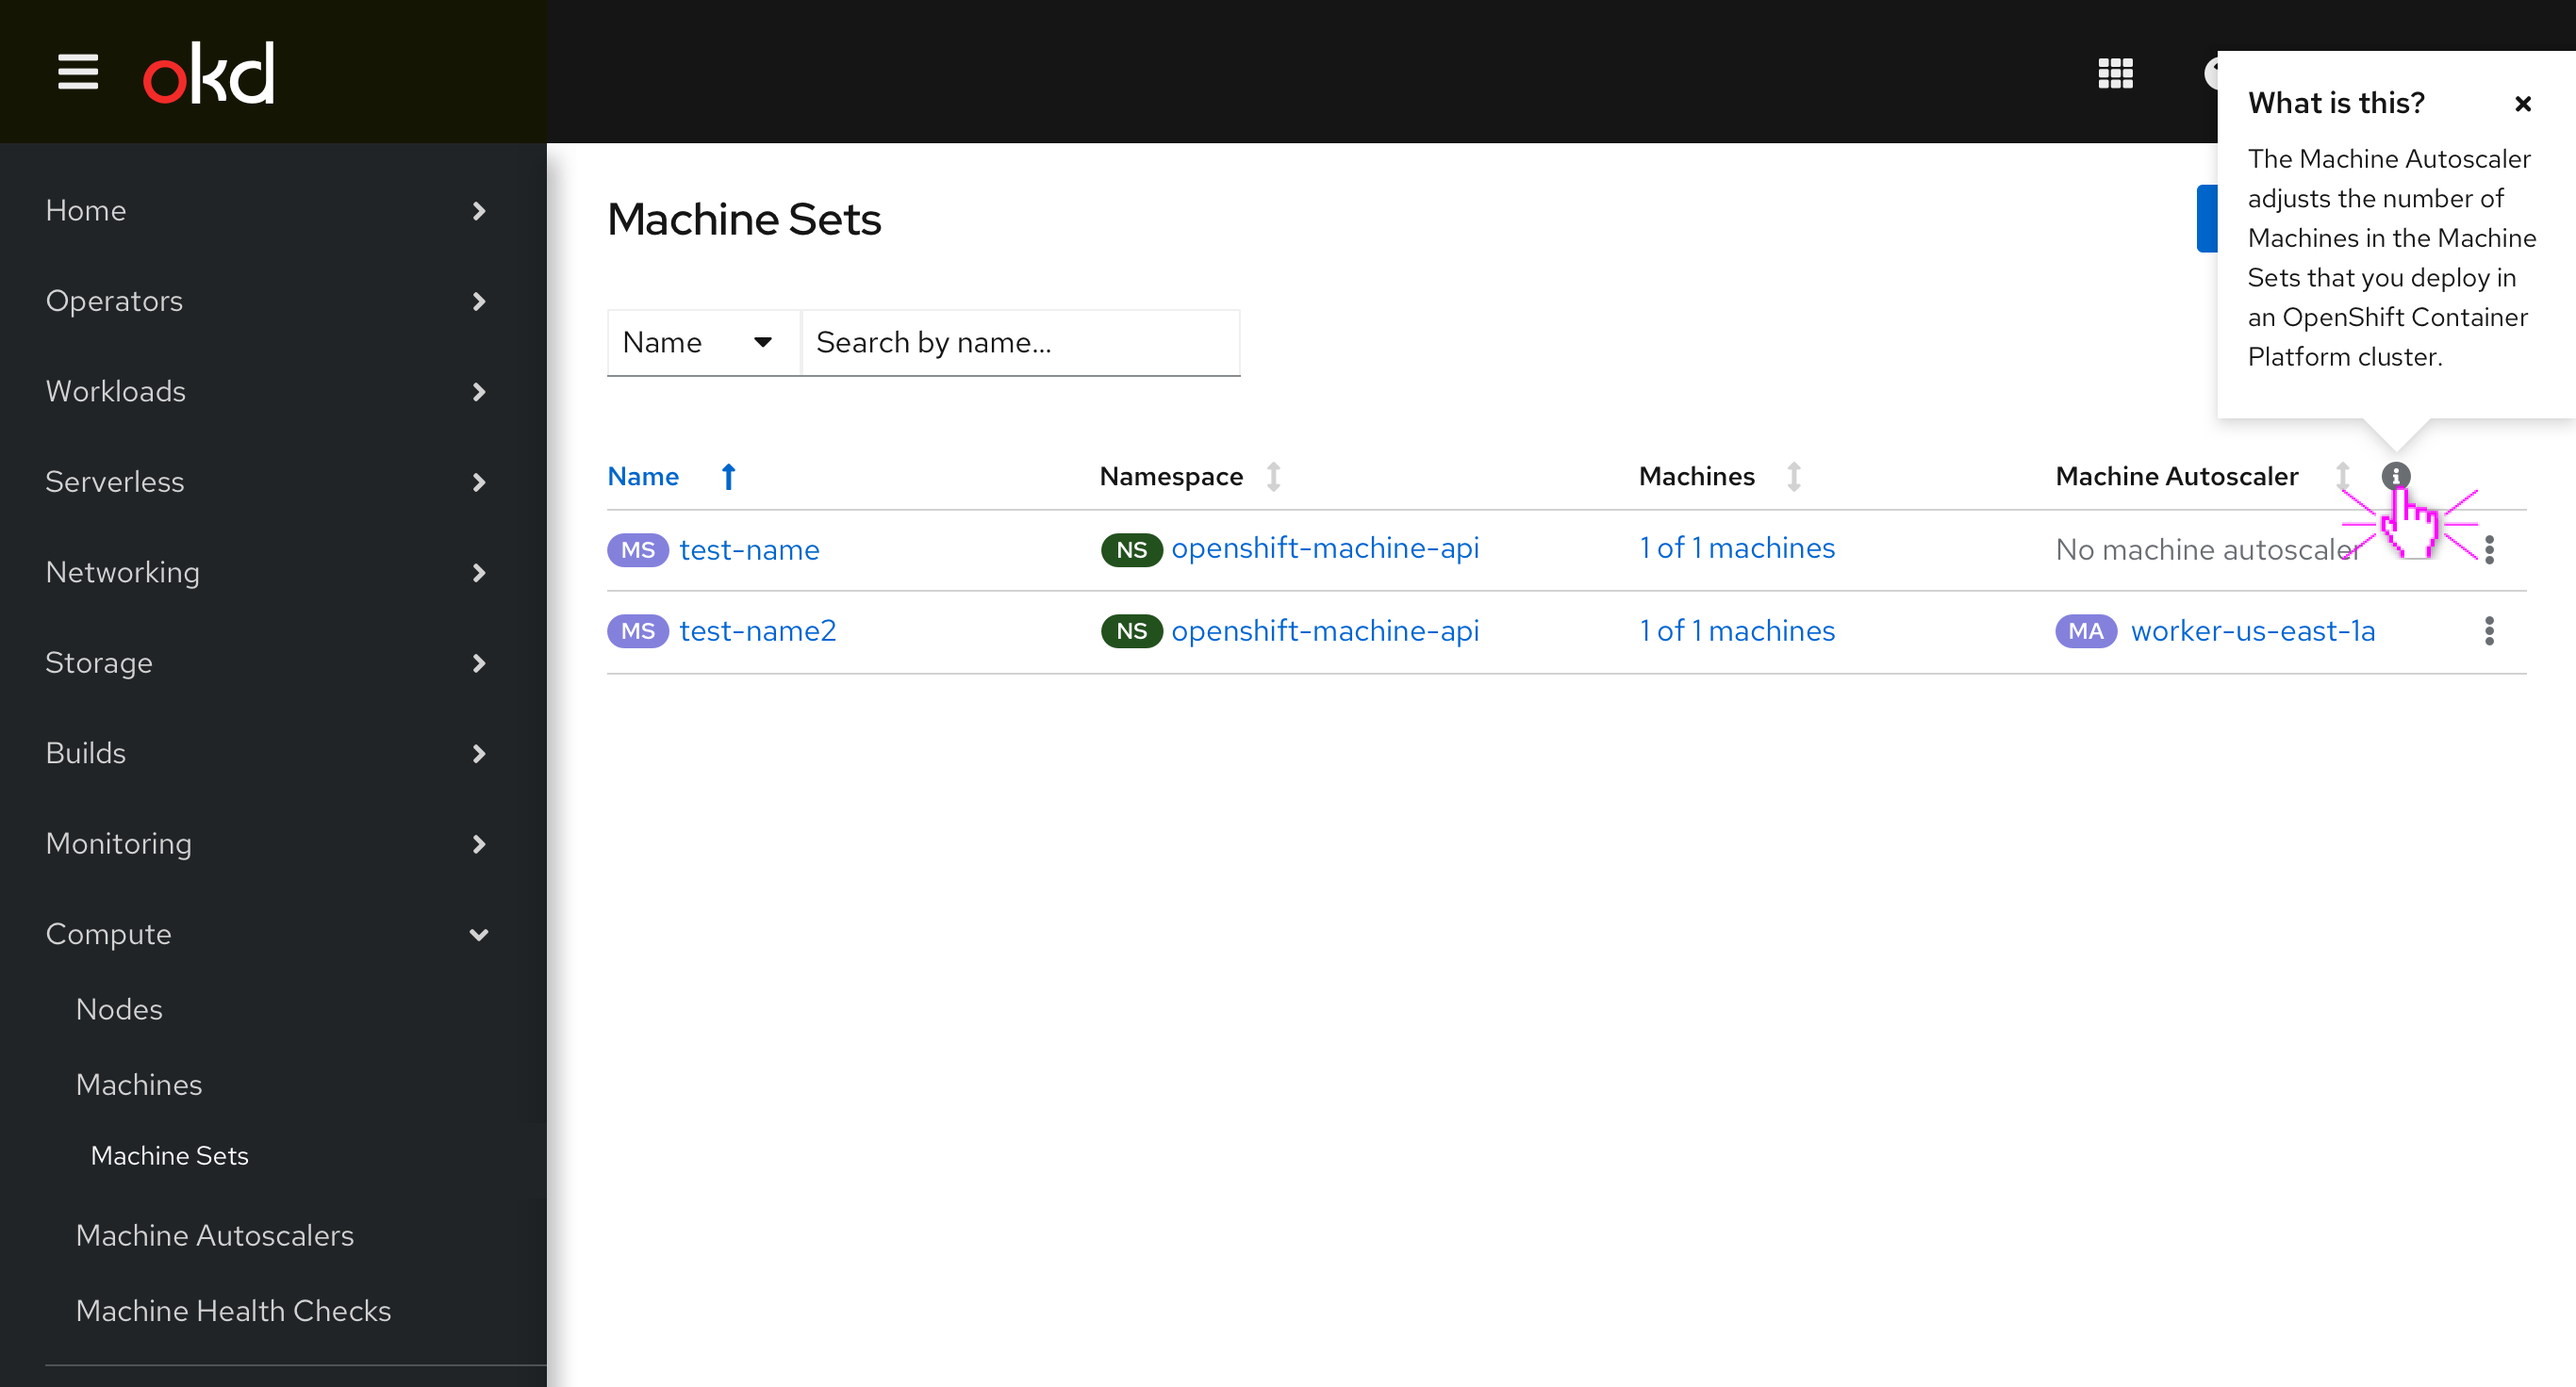
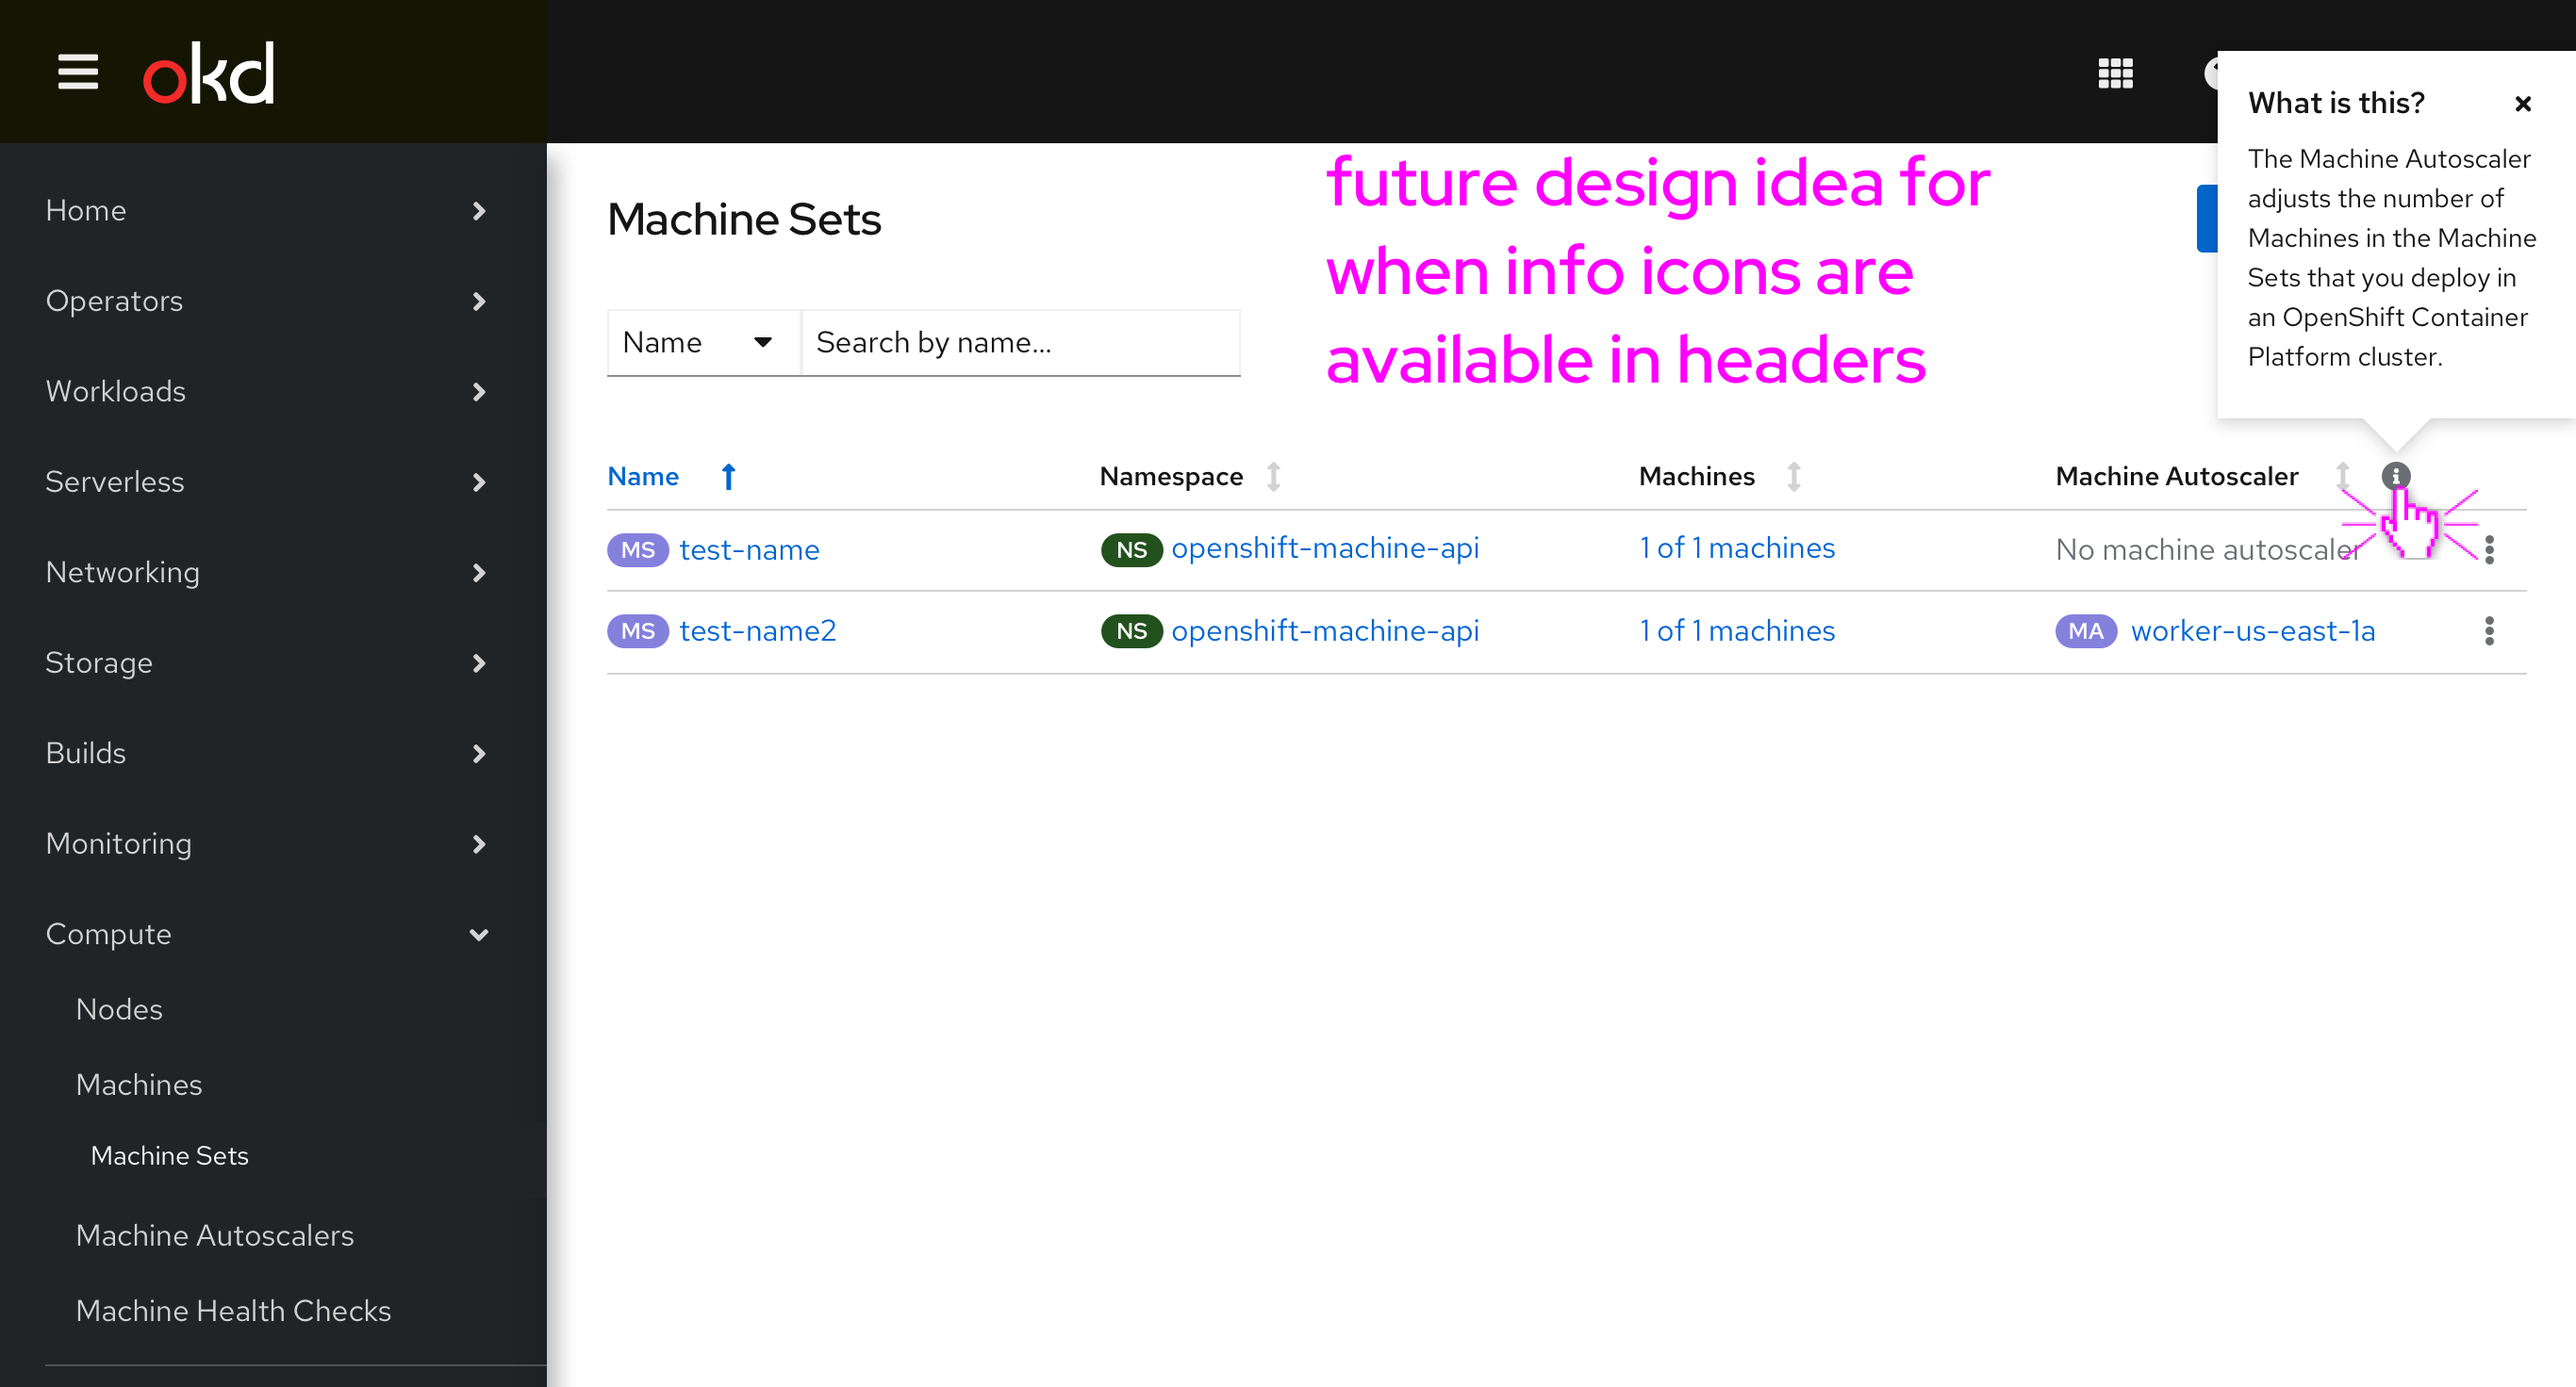
Updates based on Andy's comments
Added in some screens for the empty state when first navigating to the Create Machine Autoscaler page

Changed region(s): [[0.4978, 0.125, 0.7778, 0.1562], [0.4978, 0.25, 0.7467, 0.2812], [0.4978, 0.1875, 0.7467, 0.2188]]

diff --git a/designs/administrator/future-openshift/autoscaler-guidance/index.md b/designs/administrator/future-openshift/autoscaler-guidance/index.md
@@ -34,7 +34,7 @@ The user can edit the Cluster Autoscaler from here, or delete the Cluster Autosc
 ![Autoscaler](img/delete-cluster-autoscaler-1.png)
 
 The user navigates back to the Machine Autoscalers area and clicks “Create Machine Autoscaler”
-![Autoscaler](img/autoscaler-3.png)
+![Autoscaler](img/machine-autoscaler-10.png)
 
 The inline info alert is gone.
 
@@ -45,11 +45,15 @@ A Machine Autoscaler column is added to the Machine Sets page. The user opens th
 Kebab options when a Machine Autoscaler is already created, change to “Edit Machine Autoscaler”:
 ![Machine Sets](img/machine_sets-3.png)
 
-Additional option for when popovers are added to table headers:
+In the future the column heading could be enhanced with an additional option for when popovers are added to table headers:
 ![Machine Sets](img/machine_sets-4.png)
 
 ## Machine Autoscaler Creation
-When Create Machine Autoscaler is selected a new fields appear for Name and minimum/maximum replica count. The name of the autoscaler is automatically generated based on the MachineSet’s name, the maximum replica count is set to the MachineSet’s current number of replicas by default, and the user can click “Create” when finished to see it in the List page.
+When both the Cluster Autoscaler and the Machine Set have been configured the Create Machine Autoscaler option will show the following screen and allow the user to select a configured Machine Set from the dropdown
+![Machine Autoscaler](img/machine-autoscaler-8.png)
+![Machine Autoscaler](img/machine-autoscaler-9.png)
+
+When a Machine Set is selected new fields appear for Name and minimum/maximum replica count. The name of the autoscaler is automatically generated based on the MachineSet’s name, the maximum replica count is set to the MachineSet’s current number of replicas by default, and the user can click “Create” when finished to see it in the List page.
 
 ![Machine Autoscaler](img/machine-autoscaler-1.png)
 If the user sets a Maximum replica count that could bump up against any of the cluster autoscaler’s scaling limits an inline info alert is shown that lists each one.
